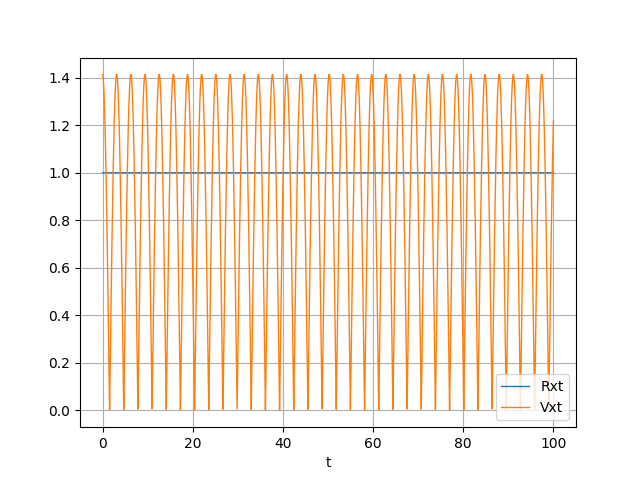
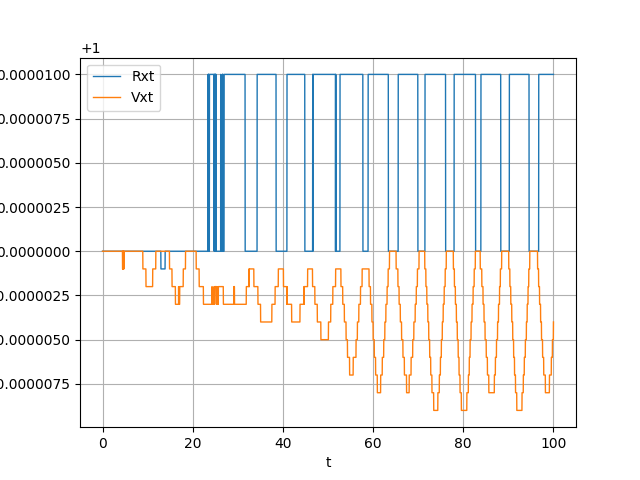
P4

diff --git a/P4/1/c/1c.cpp b/P4/1/c/1c.cpp
@@ -96,7 +96,7 @@ int main()
 
 	for (int i=1; i <= n; i++){
 		Terra.Runge_Kutta(dt); // Iterando planeta pelo método RK4
-		data << sqrt(pow(Terra.x(), 2) + pow(Terra.Vx(), 2)) << "\t" << sqrt(pow(Terra.x(), 2) + pow(Terra.Vy(), 2)) << "\t" << time <<"\n";
+		data << sqrt(pow(Terra.x(), 2) + pow(Terra.y(), 2)) << "\t" << sqrt(pow(Terra.Vx(), 2) + pow(Terra.Vy(), 2)) << "\t" << time <<"\n";
 		data2 << Terra.x() << "\t" << Terra.y() << "\n";
 		// Acima salvo os valores obtidos nos arquivos
 
